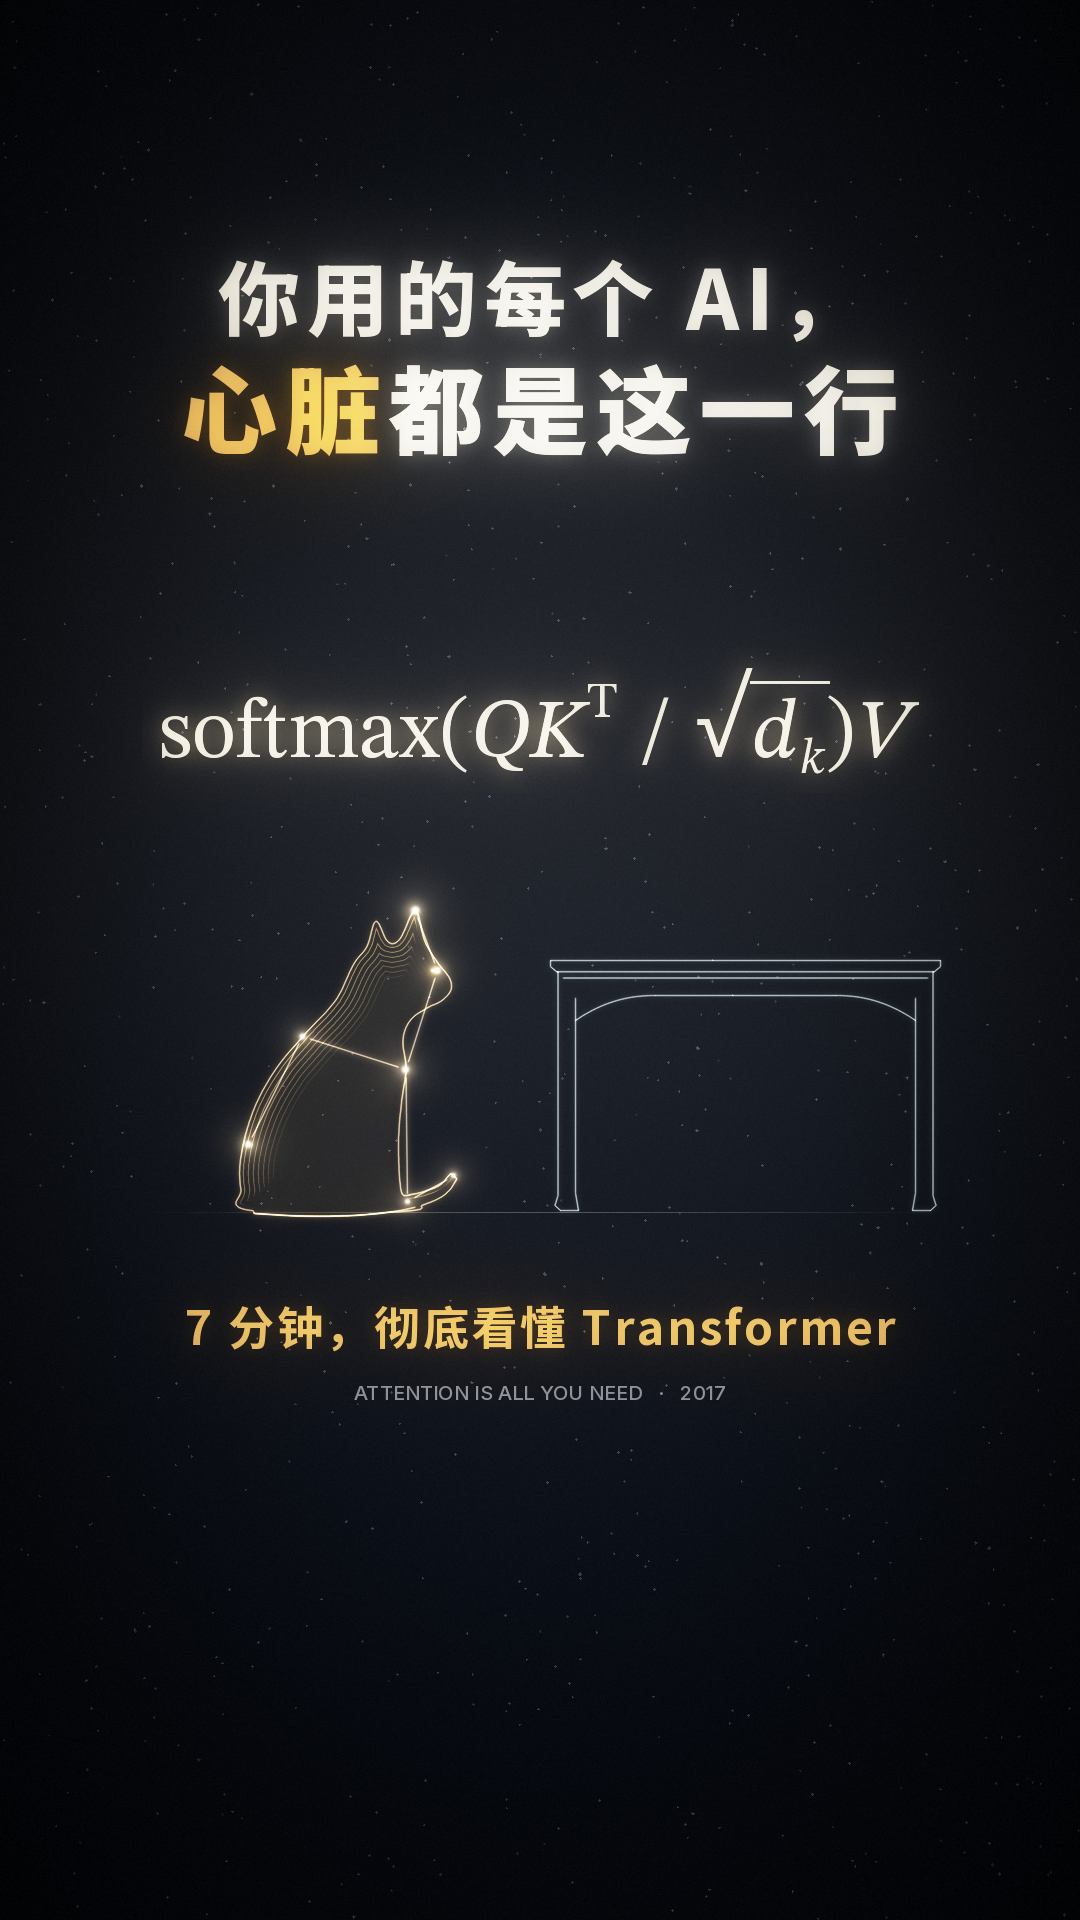
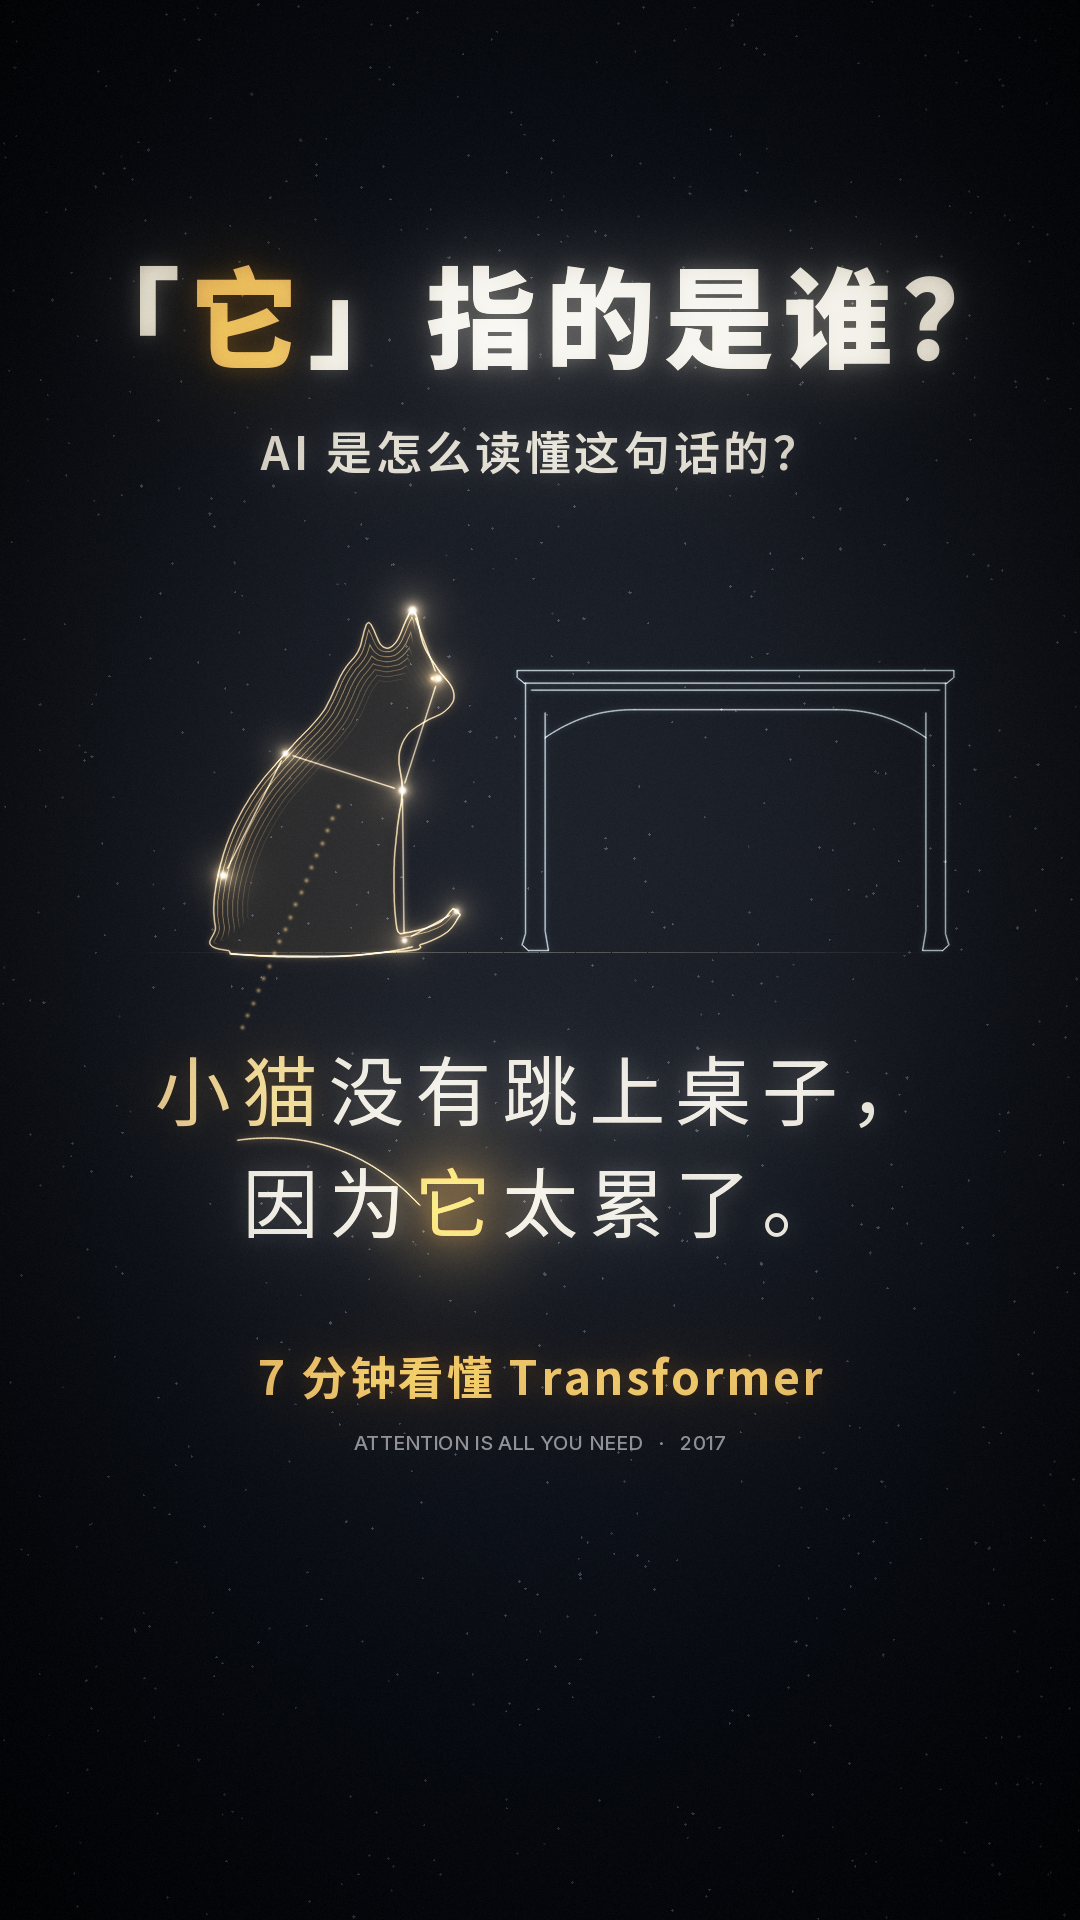
Attention film: covers without the formula, and calmer copy
The first cover was rejected by the platform's review.  The new covers lead
with the question 「它」指的是谁？ over the opening plate, with no formula and
no sweeping claims; the titles and the first line of the description are
toned down the same way.

Claude-Session: https://claude.ai/code/session_0113zKuuS17ZMkgC3Ui1YGhR

diff --git a/attention-video/poster.py b/attention-video/poster.py
@@ -1,8 +1,9 @@
 """Covers for 注意力 · Attention Is All You Need.
 
-Made for the feed: a big two-line headline people can read at thumbnail size,
-the formula glowing in the middle, and the film's star-atlas cat and Ming
-table underneath.  9:16 for the video cover, 3:4 for the profile grid.
+Made for the feed: one question people can read at thumbnail size - 「它」指的是谁？ -
+over the film's opening plate (the star-atlas cat, the Ming table, the sentence
+and the gold thread from 「它」 to 小猫).  No formula and no sweeping claims, so
+the cover passes the platform's review.  9:16 for the video, 3:4 for the grid.
 
   python3 poster.py   -> cover-9x16.png (1080x1920), poster-3x4.png (1080x1440)
 """
@@ -11,9 +12,8 @@ import cv2
 import numpy as np
 
 import plates as P
-import scenes as S
 import style as ST
-from style import GOLD, DIM, add_sprite, caps, zh
+from style import GOLD, IVORY, DIM, add_sprite, caps, mix, zh
 
 W, H = 1080, 1920
 
@@ -52,37 +52,48 @@ def finish(F, path):
     print("wrote", path, out.shape[1], "x", out.shape[0])
 
 
-def headline(F, y, size=96):
-    """你用的每个 AI / 心脏都是这一行 - bold, high contrast, readable as a thumbnail."""
-    ST.punch(F, "你用的每个 AI，", W / 2, y, 10.0, 0.0, size=int(size * 0.86), wght=800)
-    ST.punch(F, "心脏都是这一行", W / 2, y + size * 1.22, 10.0, 0.0, size=size, wght=900, gold=(0, 1))
+def headline(F, y, size=110):
+    """「它」指的是谁？ - a question, readable as a thumbnail, with no formula and no big claims."""
+    ST.punch(F, "「它」指的是谁？", W / 2, y, 10.0, 0.0, size=size, wght=900, gold=(1,))
 
 
-def plate(F, ground, s_cat=300, s_table=250):
-    P.baseline(F, ground + 2, 120, 960, 1.0)
-    P.table_plate(F, 745, ground, s_table, 1.0, glow=0.0)
-    P.cat_plate(F, 320, ground, s_cat, "sit", glow=1.0)
+def scene(F, ground, y1, y2, s_cat=340, s_table=280, size=76):
+    """The film's opening plate: the star-atlas cat glowing because 「它」 points at it, the Ming table,
+    the sentence, and the gold thread from 「它」 back to 小猫."""
+    P.baseline(F, ground + 2, 110, 970, 1.0)
+    P.table_plate(F, 735, ground, s_table, 1.0, glow=0.0)
+    P.cat_plate(F, 305, ground, s_cat, "sit", glow=1.0)
+    sent = P.Line2(("小猫没有跳上桌子，", "因为它太累了。"),
+                   [(0, 0, 2), (0, 2, 4), (0, 4, 6), (0, 6, 8), (1, 0, 2), (1, 2, 3), (1, 3, 4), (1, 4, 5), (1, 5, 6)],
+                   size, (y1, y2))
+    cols = [IVORY] * 9
+    cols[P.IT] = GOLD
+    cols[P.CAT] = mix(IVORY, GOLD, 0.65)
+    sent.draw(F, 1.0, cols=cols)
+    add_sprite(F, *sent.centers[P.IT], 50, GOLD, 0.25)
+    P.thread(F, sent.centers[P.IT] + [-size * 0.45, 0], sent.centers[P.CAT] + [0, size * 0.62], 0.9, bow=-50)
+    P.dots(F, sent.centers[P.CAT] + [0, -size * 0.7], np.array([305 + 38, ground - s_cat * 0.46]), 1.0)
 
 
 def cover():
     F = canvas()
-    add_sprite(F, W / 2, 760, 420, GOLD, 0.10)
-    headline(F, 330)
-    S.formula_big(F, W / 2, 720, 10.0, 0.0, 1.0, scale=1.0)
-    plate(F, 1210)
-    zh("7 分钟，彻底看懂 Transformer", 46, 700, 0.06).draw(F, W / 2, 1345, GOLD, 1.0, align="center")
-    caps("ATTENTION IS ALL YOU NEED   ·   2017", 20, 0.4).draw(F, W / 2, 1400, DIM, 1.0, align="center")
+    add_sprite(F, W / 2, 820, 440, GOLD, 0.08)
+    headline(F, 360)
+    zh("AI 是怎么读懂这句话的？", 46, 600, 0.08).draw(F, W / 2, 470, IVORY, 0.9, align="center")
+    scene(F, 950, 1120, 1232)
+    zh("7 分钟看懂 Transformer", 46, 700, 0.06).draw(F, W / 2, 1395, GOLD, 1.0, align="center")
+    caps("ATTENTION IS ALL YOU NEED   ·   2017", 20, 0.4).draw(F, W / 2, 1450, DIM, 1.0, align="center")
     finish(F, "cover-9x16.png")
 
 
 def portrait():
     ST.E.H = 1440                     # the engine clips drawing to its frame size
     F = canvas(1440, seed=5)
-    add_sprite(F, W / 2, 610, 380, GOLD, 0.10)
-    headline(F, 210, size=92)
-    S.formula_big(F, W / 2, 580, 10.0, 0.0, 1.0, scale=0.95)
-    plate(F, 1080, s_cat=270, s_table=230)
-    zh("7 分钟，彻底看懂 Transformer", 44, 700, 0.06).draw(F, W / 2, 1200, GOLD, 1.0, align="center")
+    add_sprite(F, W / 2, 640, 400, GOLD, 0.08)
+    headline(F, 220, size=104)
+    zh("AI 是怎么读懂这句话的？", 42, 600, 0.08).draw(F, W / 2, 320, IVORY, 0.9, align="center")
+    scene(F, 770, 935, 1043, s_cat=320, s_table=265, size=72)
+    zh("7 分钟看懂 Transformer", 44, 700, 0.06).draw(F, W / 2, 1200, GOLD, 1.0, align="center")
     caps("ATTENTION IS ALL YOU NEED   ·   2017", 19, 0.4).draw(F, W / 2, 1252, DIM, 1.0, align="center")
     finish(F, "poster-3x4.png")
     ST.E.H = H
